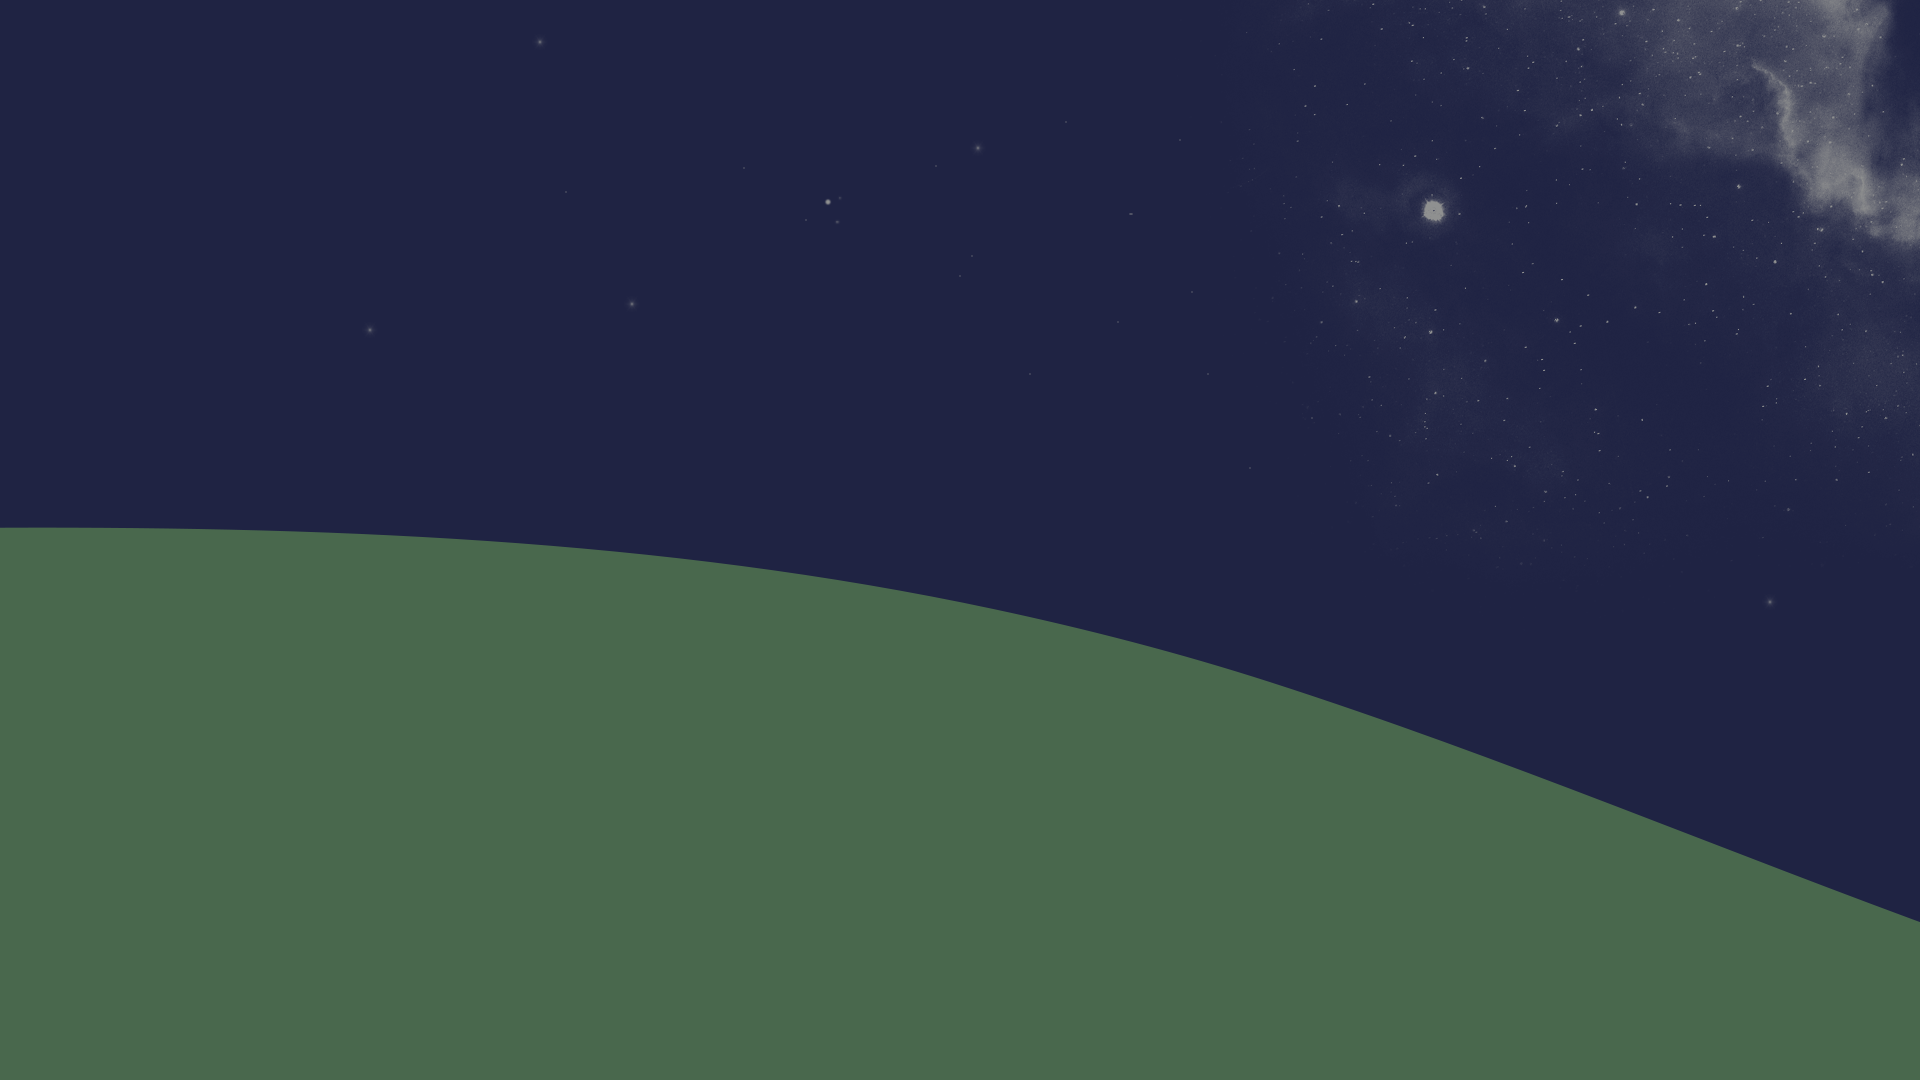
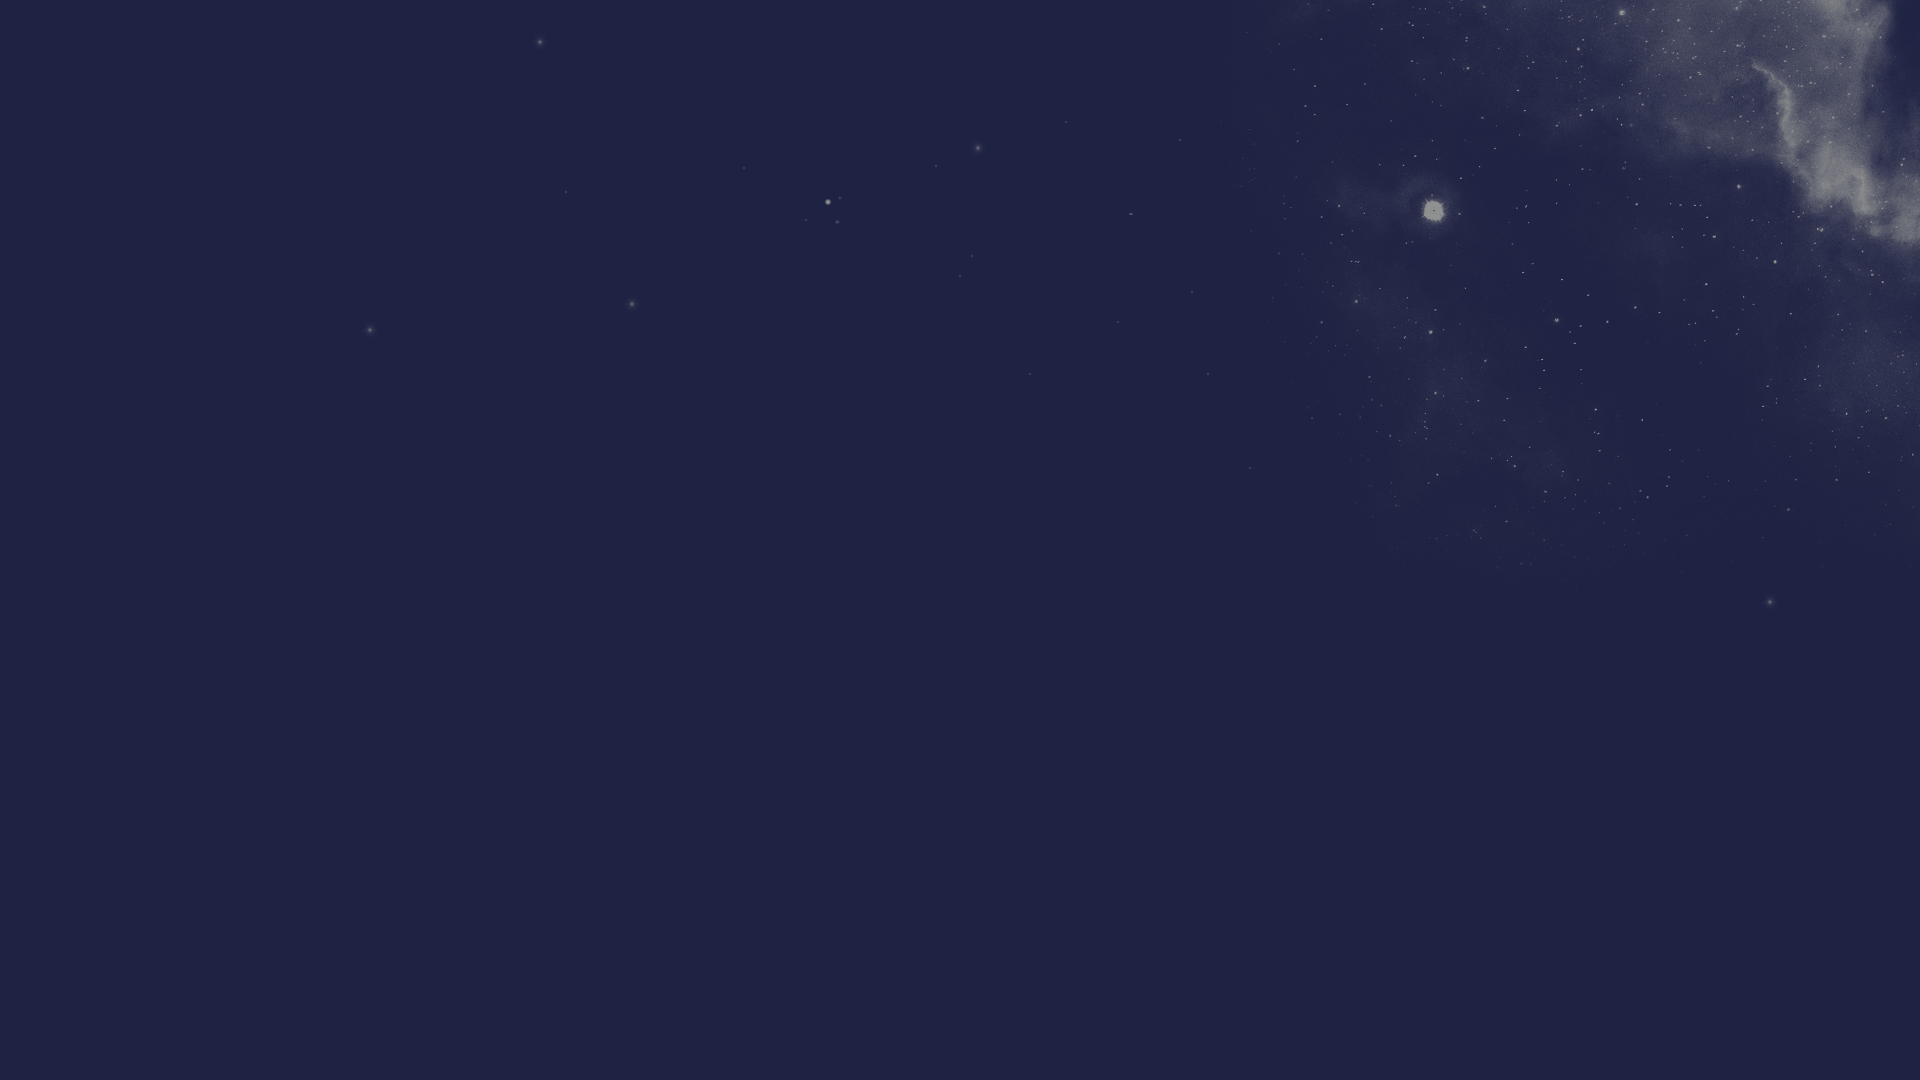
백그라운드 이미지 분리

diff --git a/index.html b/index.html
@@ -12,7 +12,12 @@
 </head>
 
 <body>
-    <div id="main"></div>
+    <div id="main">
+        <div class="mat">
+            매트 이미지
+        </div>
+
+    </div>
     <div id="second"></div>
 </body>
 
